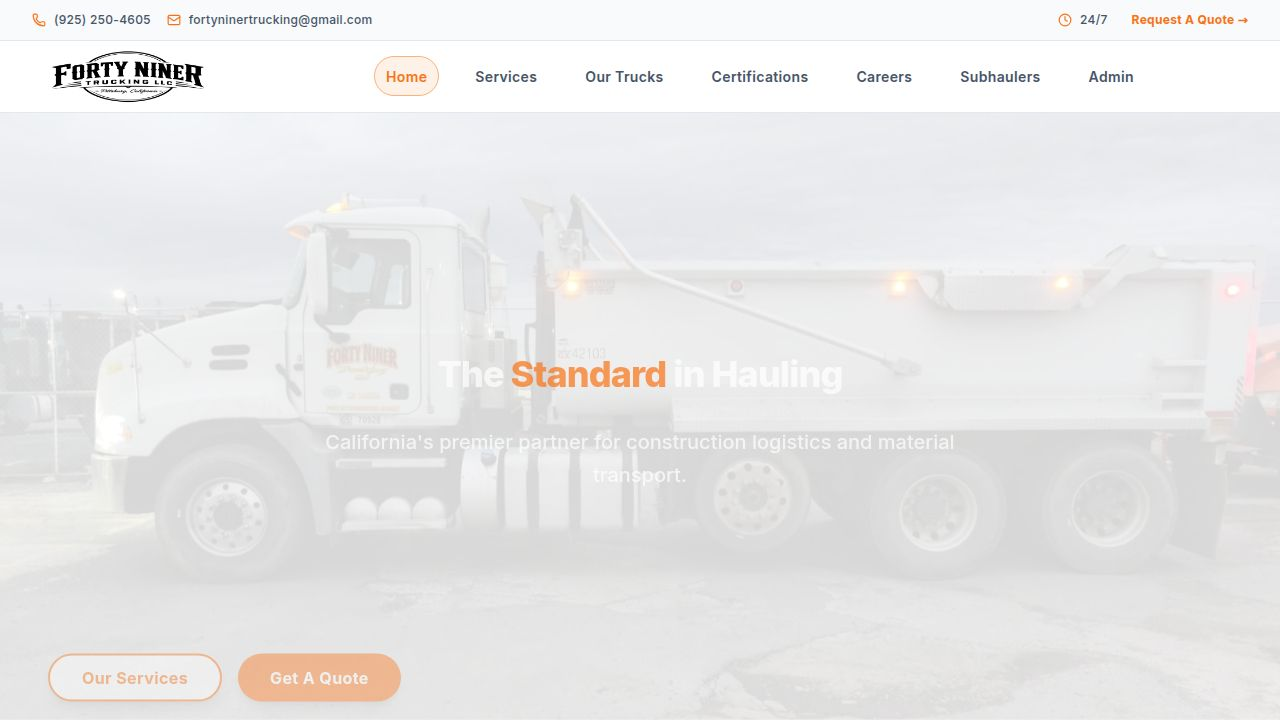
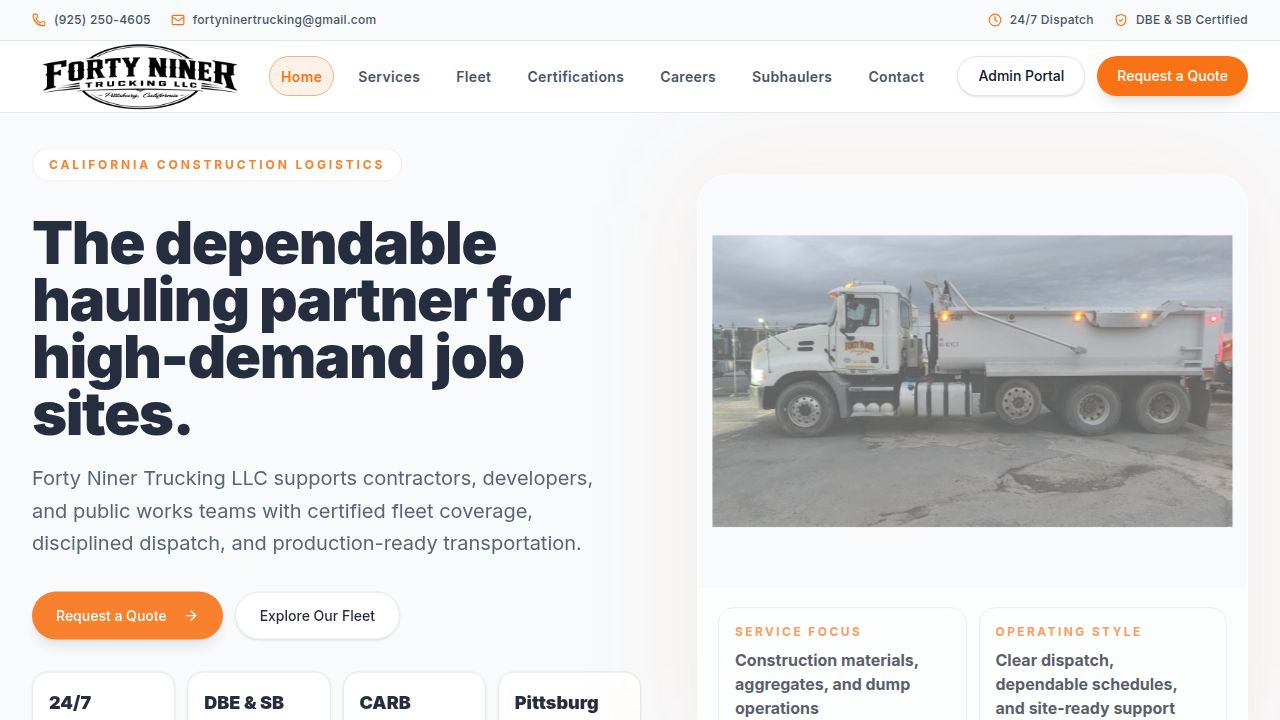
Improve image display to prevent cropping
Adjust image rendering properties to ensure full images are visible and prevent cropping across key pages.

Replit-Commit-Author: Agent
Replit-Commit-Session-Id: be64c6e2-5b95-4590-80eb-7df7c099496d
Replit-Commit-Checkpoint-Type: full_checkpoint
Replit-Commit-Event-Id: 39679ee2-d3c4-4212-af4b-9fb83c3b2a22
Replit-Commit-Screenshot-Url: https://storage.googleapis.com/screenshot-production-us-central1/74c87e2d-ebef-452a-bdc8-60aabaeb0e62/be64c6e2-5b95-4590-80eb-7df7c099496d/WEyz6pN
Replit-Helium-Checkpoint-Created: true

diff --git a/client/src/pages/fleet.tsx b/client/src/pages/fleet.tsx
@@ -72,7 +72,7 @@ export default function Fleet() {
             <motion.div initial={{ opacity: 0, y: 18 }} animate={{ opacity: 1, y: 0 }} transition={{ duration: 0.8, delay: 0.1 }} className="relative">
               <div className="absolute -inset-4 bg-[var(--primary)]/10 blur-3xl rounded-[2rem]" />
               <div className="relative rounded-[2rem] overflow-hidden border border-[var(--border)] bg-white shadow-sm">
-                <img src={heroImage1} alt="Forty Niner Trucking fleet" className="w-full aspect-[4/3] object-cover" />
+                <img src={heroImage1} alt="Forty Niner Trucking fleet" className="w-full aspect-[4/3] object-contain bg-[var(--surface-2)] p-4" />
                 <div className="grid grid-cols-2 gap-3 p-5 bg-white">
                   <div className="rounded-2xl border border-[var(--border)] p-4">
                     <ShieldCheck className="text-[var(--primary)]" size={24} />
@@ -137,7 +137,7 @@ export default function Fleet() {
             </div>
 
             <div className="rounded-[2rem] overflow-hidden border border-[var(--border)] bg-white shadow-sm">
-              <img src={heroImage2} alt="Fleet maintenance and reliability" className="w-full aspect-[4/3] object-cover" />
+              <img src={heroImage2} alt="Fleet maintenance and reliability" className="w-full aspect-[4/3] object-contain bg-[var(--surface-2)] p-4" />
               <div className="p-5 border-t border-[var(--border)] bg-white">
                 <div className="flex items-center gap-4">
                   <div className="h-12 w-12 rounded-2xl bg-[var(--text)] text-white flex items-center justify-center">

diff --git a/client/src/pages/services.tsx b/client/src/pages/services.tsx
@@ -73,7 +73,7 @@ export default function Services() {
 
             <div className="rounded-[2rem] border border-[var(--border)] bg-white p-6 md:p-7 shadow-sm">
               <div className="rounded-[1.5rem] overflow-hidden border border-[var(--border)]">
-                <img src={heroImage3} alt="Forty Niner hauling services" className="w-full aspect-[4/3] object-cover" />
+                <img src={heroImage3} alt="Forty Niner hauling services" className="w-full aspect-[4/3] object-contain bg-[var(--surface-2)] p-4" />
               </div>
               <div className="grid sm:grid-cols-2 gap-4 mt-5">
                 <div className="rounded-2xl bg-[var(--surface-2)] p-4 border border-[var(--border)]">
@@ -122,7 +122,7 @@ export default function Services() {
         <div className="w-full max-w-[1400px] mx-auto px-4 md:px-8">
           <div className="grid lg:grid-cols-[0.95fr_1.05fr] gap-10 lg:gap-14 items-center">
             <div className="rounded-[2rem] overflow-hidden border border-[var(--border)] bg-white shadow-sm">
-              <img src={heroImage4} alt="Dump truck services" className="w-full aspect-[4/3] object-cover" />
+              <img src={heroImage4} alt="Dump truck services" className="w-full aspect-[4/3] object-contain bg-[var(--surface-2)] p-4" />
             </div>
             <div className="space-y-6">
               <p className="text-xs font-bold uppercase tracking-[0.24em] text-[var(--primary)]">How we work</p>

diff --git a/client/src/pages/home.tsx b/client/src/pages/home.tsx
@@ -124,7 +124,7 @@ export default function Home() {
                       animate={{ opacity: 1, scale: 1 }}
                       exit={{ opacity: 0.15 }}
                       transition={{ duration: 0.7, ease: "easeOut" }}
-                      className="h-full w-full object-cover"
+                      className="h-full w-full object-contain bg-[var(--surface-2)] p-4"
                     />
                   </AnimatePresence>
                 </div>
@@ -173,7 +173,7 @@ export default function Home() {
         <div className="w-full max-w-[1400px] mx-auto px-4 md:px-8">
           <div className="grid lg:grid-cols-[0.95fr_1.05fr] gap-8 lg:gap-12 items-center">
             <div className="rounded-[2rem] overflow-hidden border border-[var(--border)] bg-white shadow-sm">
-              <img src={heroImage4} alt="Dump truck at construction site" className="w-full aspect-[4/3] object-cover" />
+              <img src={heroImage4} alt="Dump truck at construction site" className="w-full aspect-[4/3] object-contain bg-[var(--surface-2)] p-4" />
             </div>
             <div className="space-y-6">
               <p className="text-xs font-bold uppercase tracking-[0.24em] text-[var(--primary)]">Production-ready support</p>
